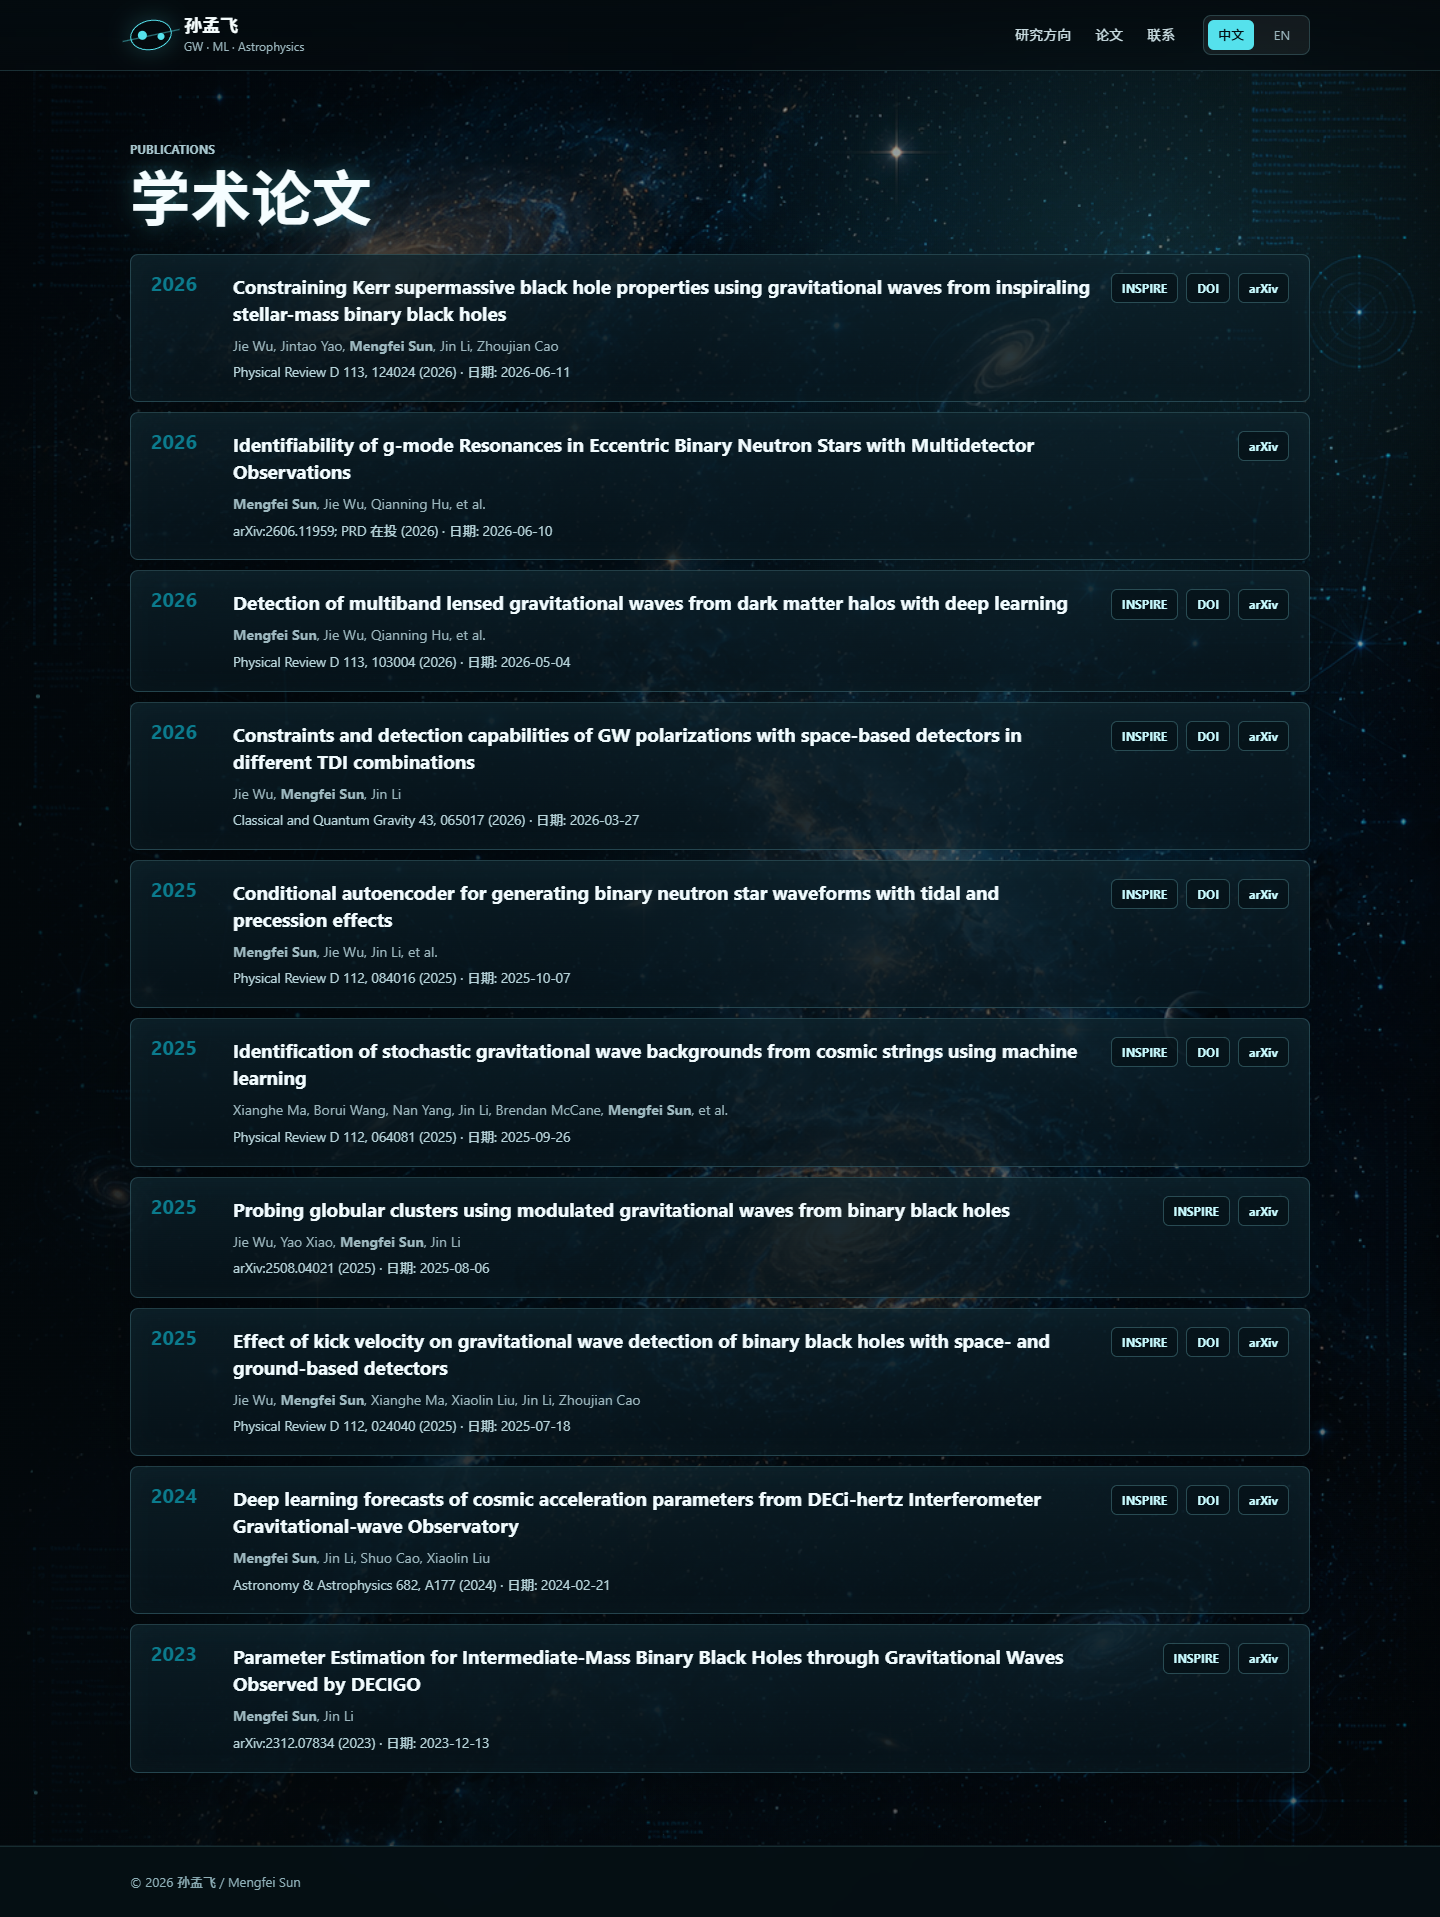
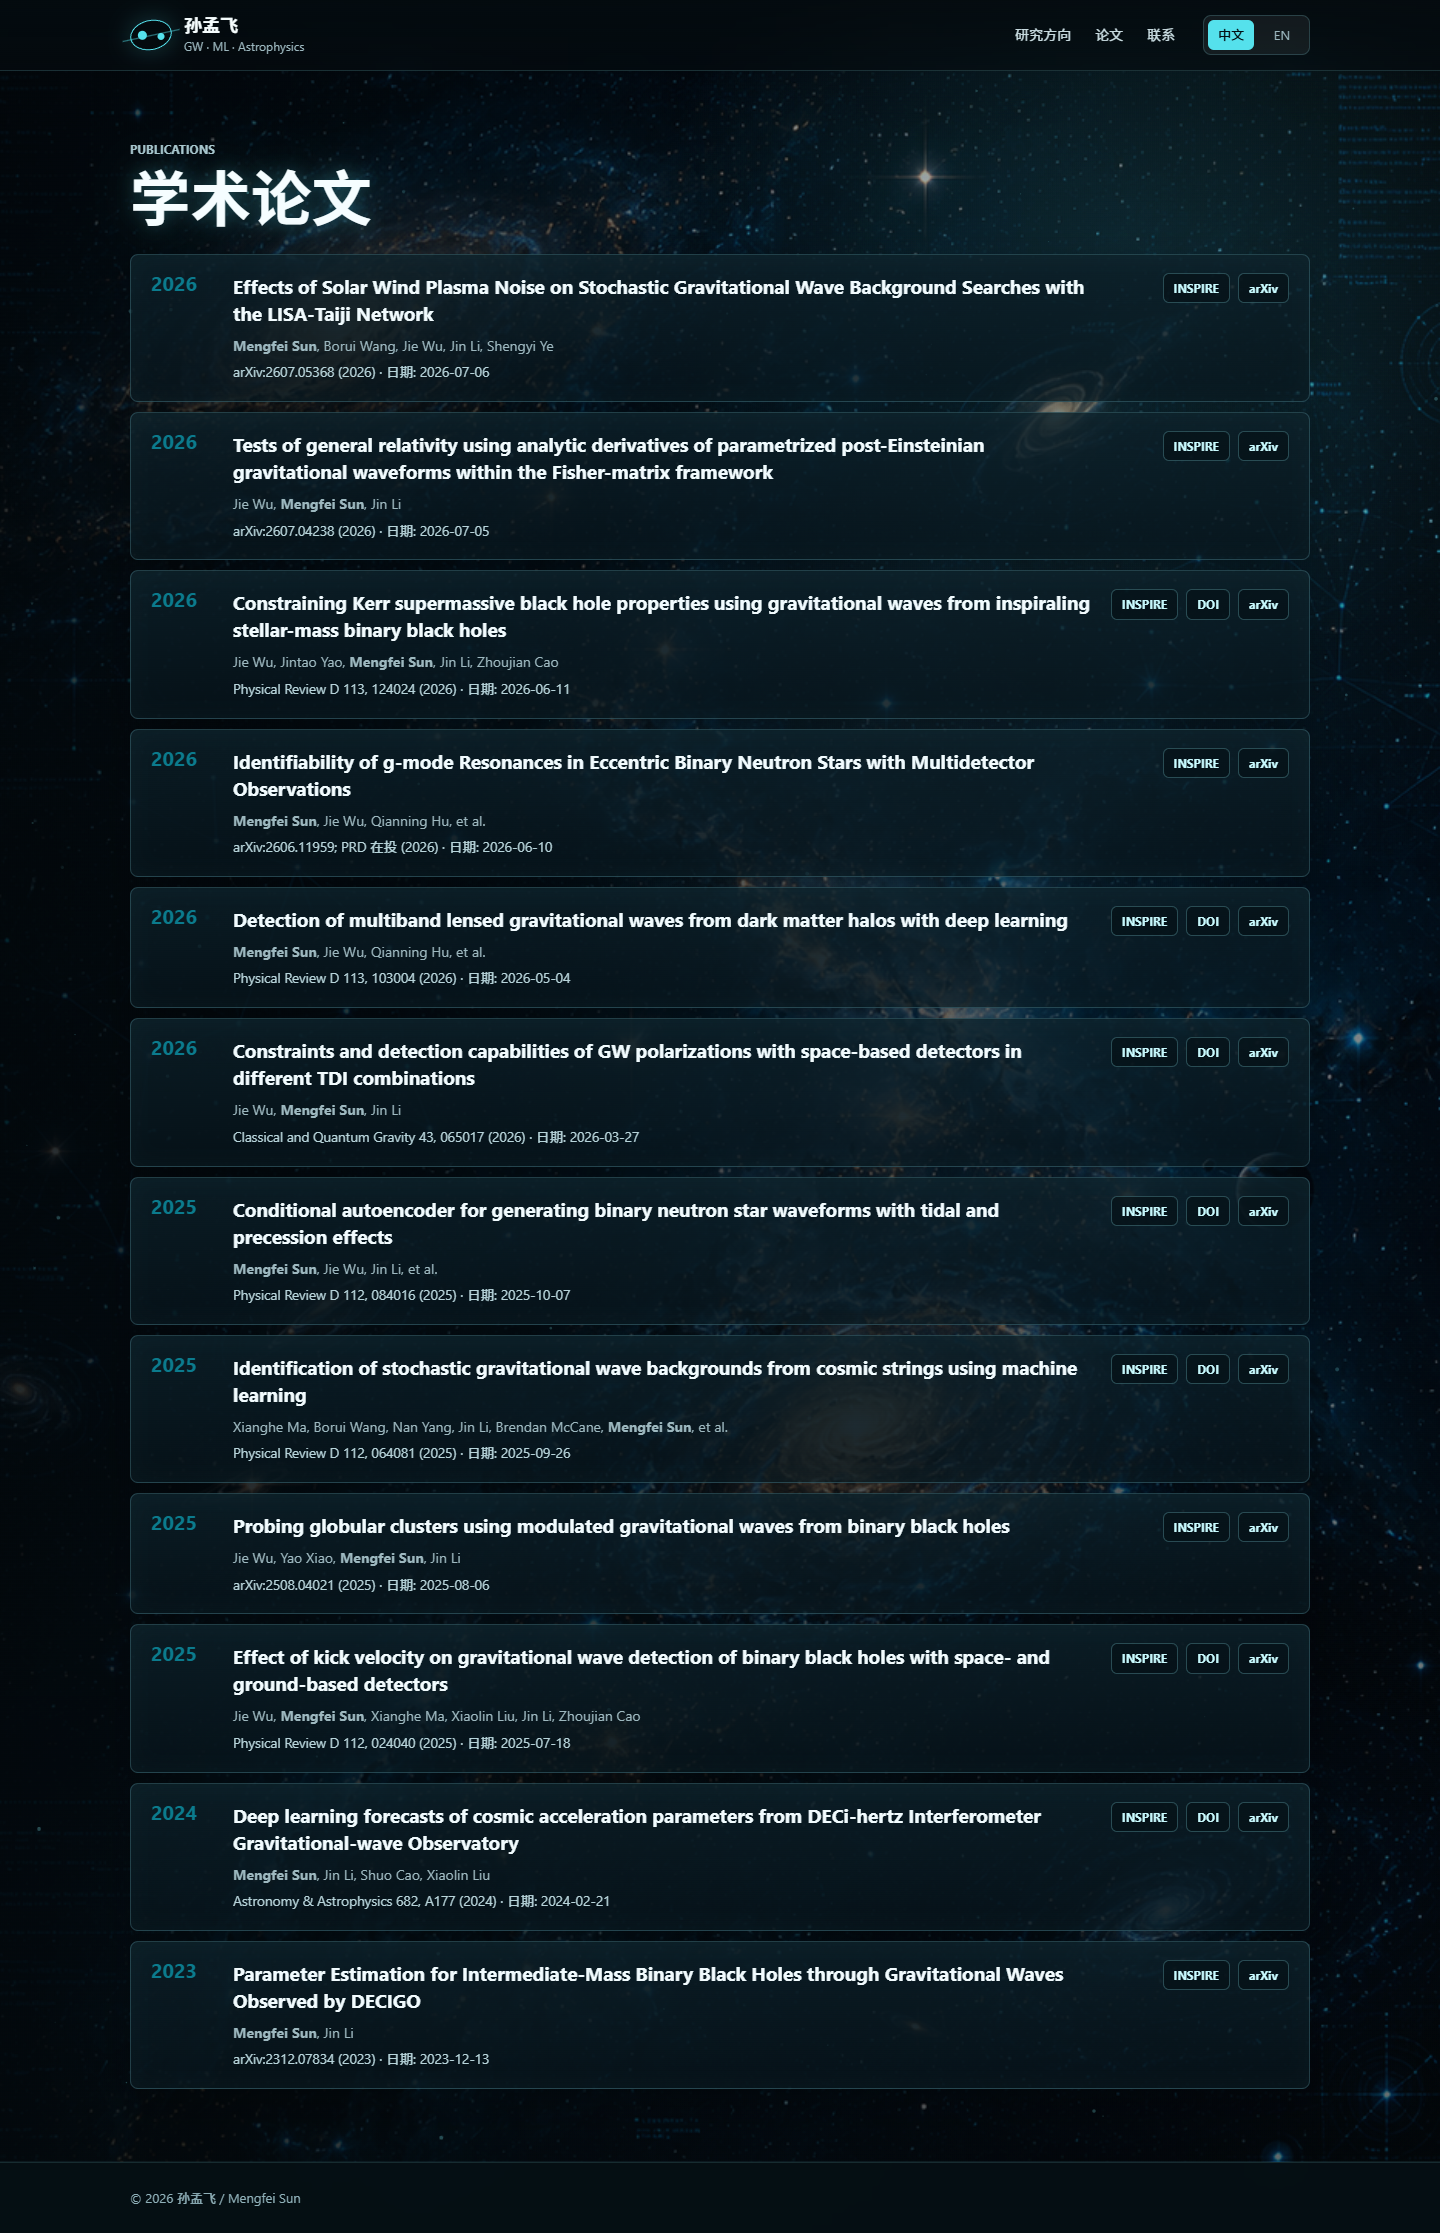
Update publications from INSPIRE

diff --git a/assets/js/main.js b/assets/js/main.js
@@ -18,6 +18,34 @@ const translations = {
 const publications = [
   {
     year: "2026",
+    title: "Effects of Solar Wind Plasma Noise on Stochastic Gravitational Wave Background Searches with the LISA-Taiji Network",
+    venue: {
+      zh: "arXiv:2607.05368 (2026)",
+      en: "arXiv:2607.05368 (2026)",
+    },
+    date: "2026-07-06",
+    authors: "Mengfei Sun, Borui Wang, Jie Wu, Jin Li, Shengyi Ye",
+    url: "https://inspirehep.net/literature/3177617",
+    doi: "",
+    arxiv: "https://arxiv.org/abs/2607.05368",
+    type: "preprint",
+  },
+  {
+    year: "2026",
+    title: "Tests of general relativity using analytic derivatives of parametrized post-Einsteinian gravitational waveforms within the Fisher-matrix framework",
+    venue: {
+      zh: "arXiv:2607.04238 (2026)",
+      en: "arXiv:2607.04238 (2026)",
+    },
+    date: "2026-07-05",
+    authors: "Jie Wu, Mengfei Sun, Jin Li",
+    url: "https://inspirehep.net/literature/3177550",
+    doi: "",
+    arxiv: "https://arxiv.org/abs/2607.04238",
+    type: "preprint",
+  },
+  {
+    year: "2026",
     title: "Constraining Kerr supermassive black hole properties using gravitational waves from inspiraling stellar-mass binary black holes",
     venue: {
       zh: "Physical Review D 113, 124024 (2026)",
@@ -39,7 +67,7 @@ const publications = [
     },
     date: "2026-06-10",
     authors: "Mengfei Sun, Jie Wu, Qianning Hu, et al.",
-    url: "",
+    url: "https://inspirehep.net/literature/3167665",
     doi: "",
     arxiv: "https://arxiv.org/abs/2606.11959",
     type: "preprint",

diff --git a/index.html b/index.html
@@ -146,7 +146,7 @@
           <a class="publication-portal" href="publications.html">
             <span data-lang="zh">查看学术论文</span>
             <span data-lang="en">View Publications</span>
-            <strong id="publication-count">10</strong>
+            <strong id="publication-count">12</strong>
           </a>
         </div>
       </section>
